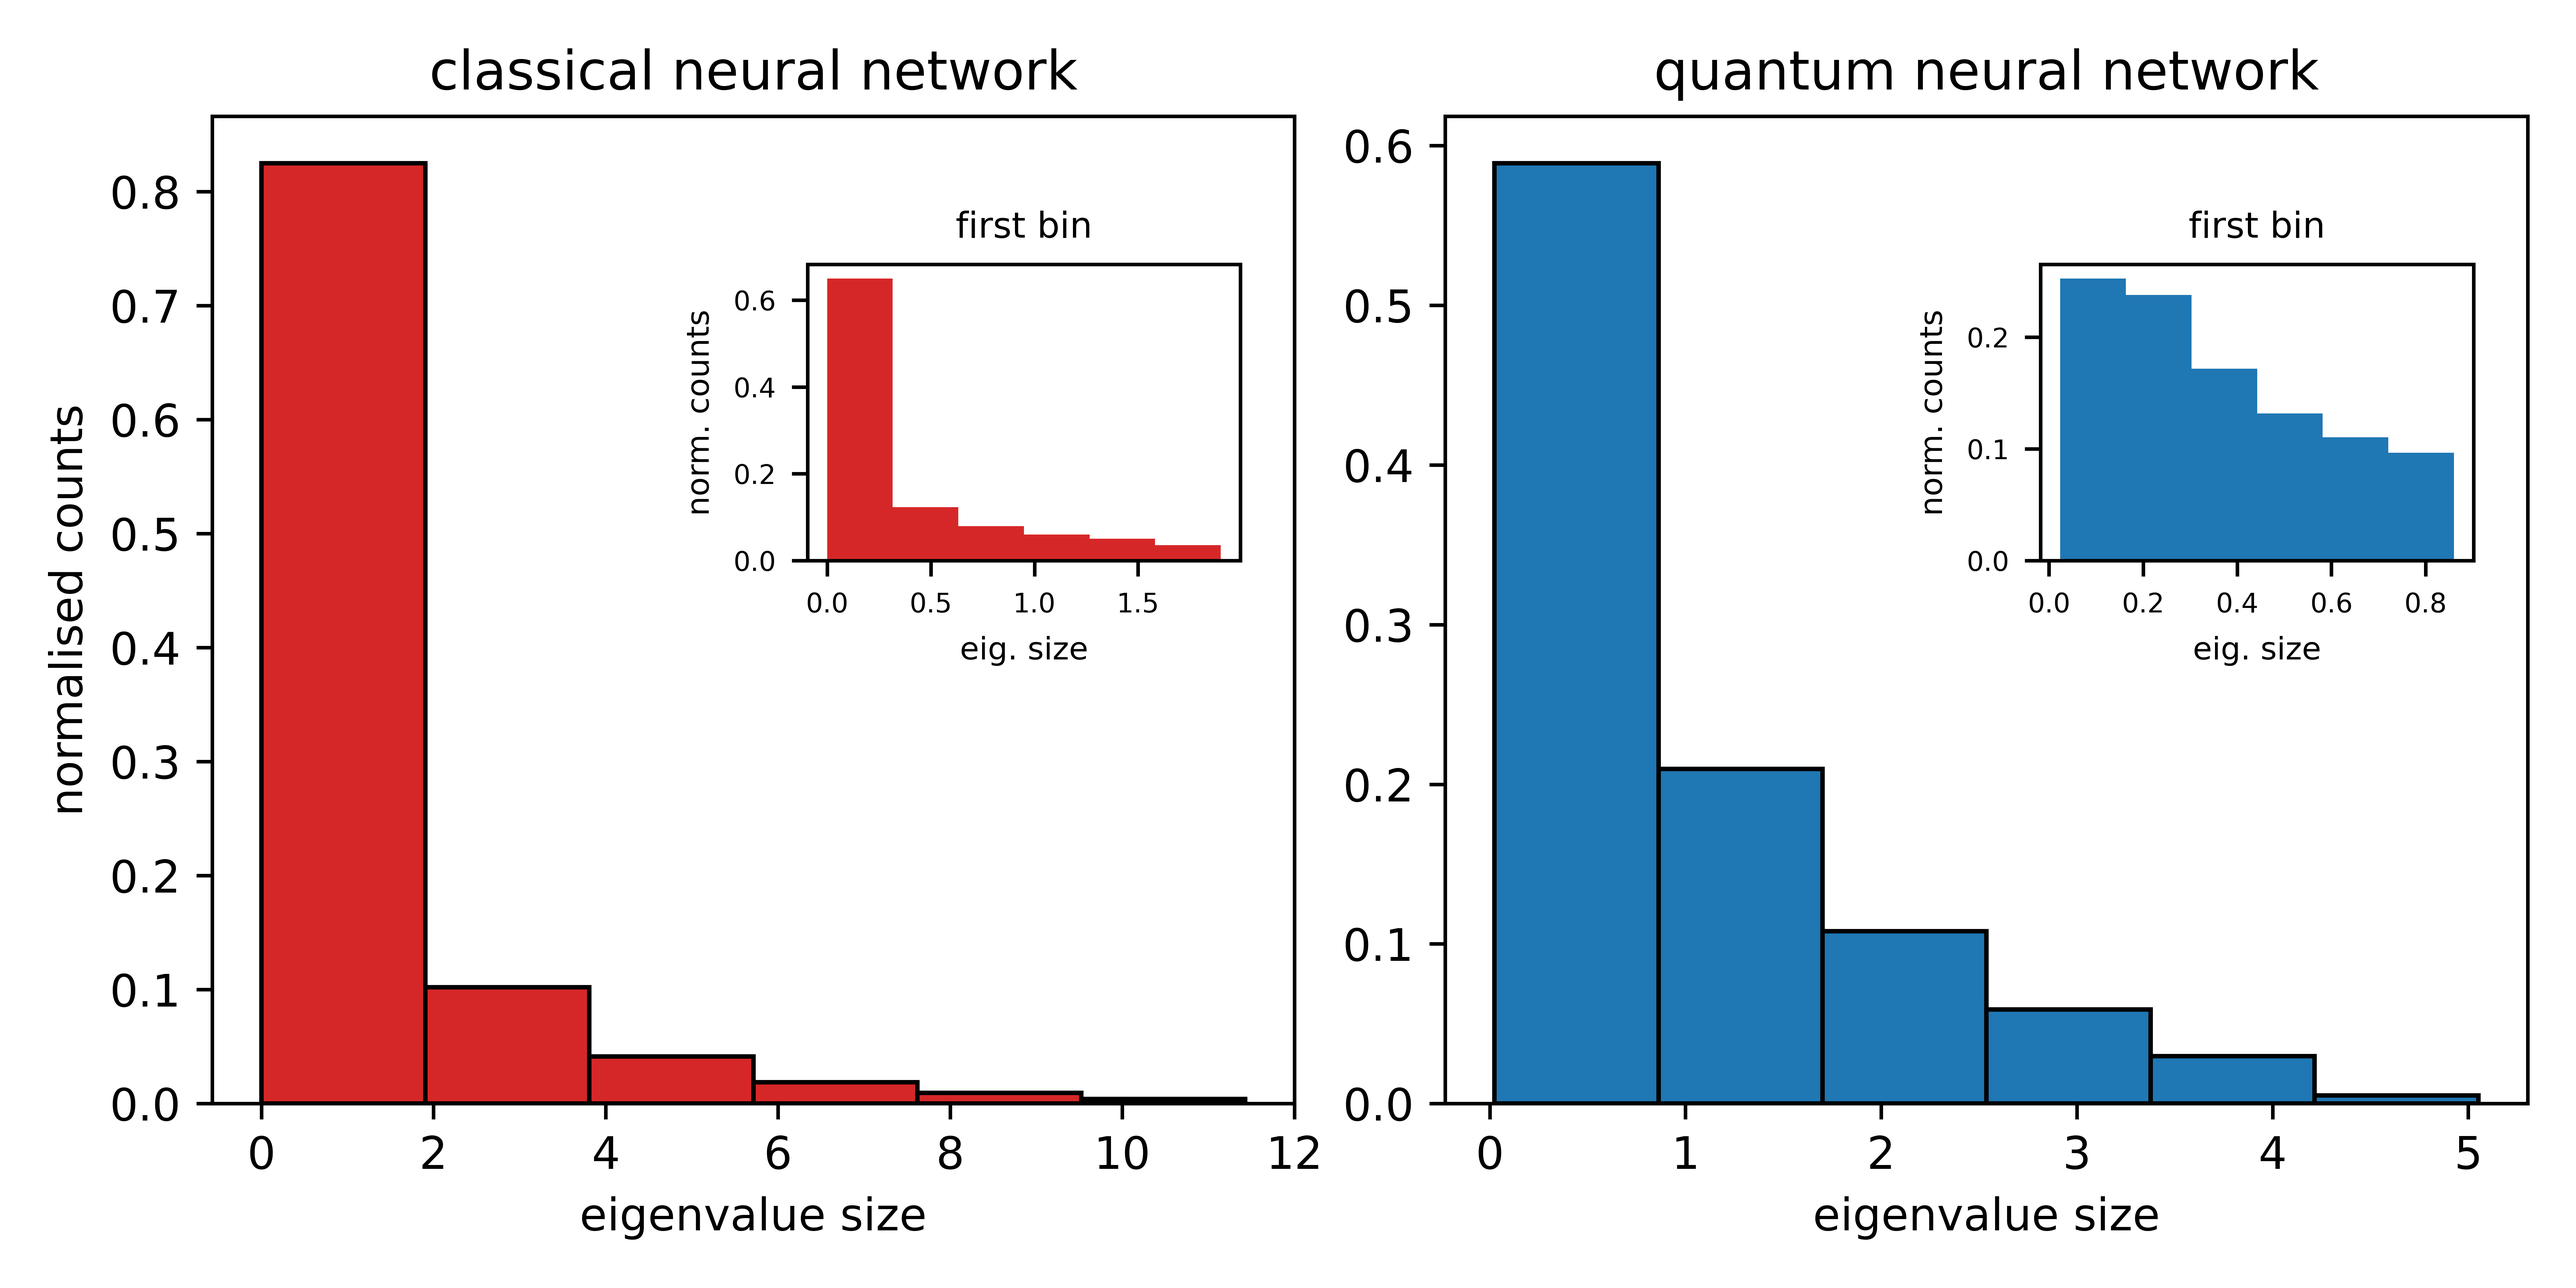
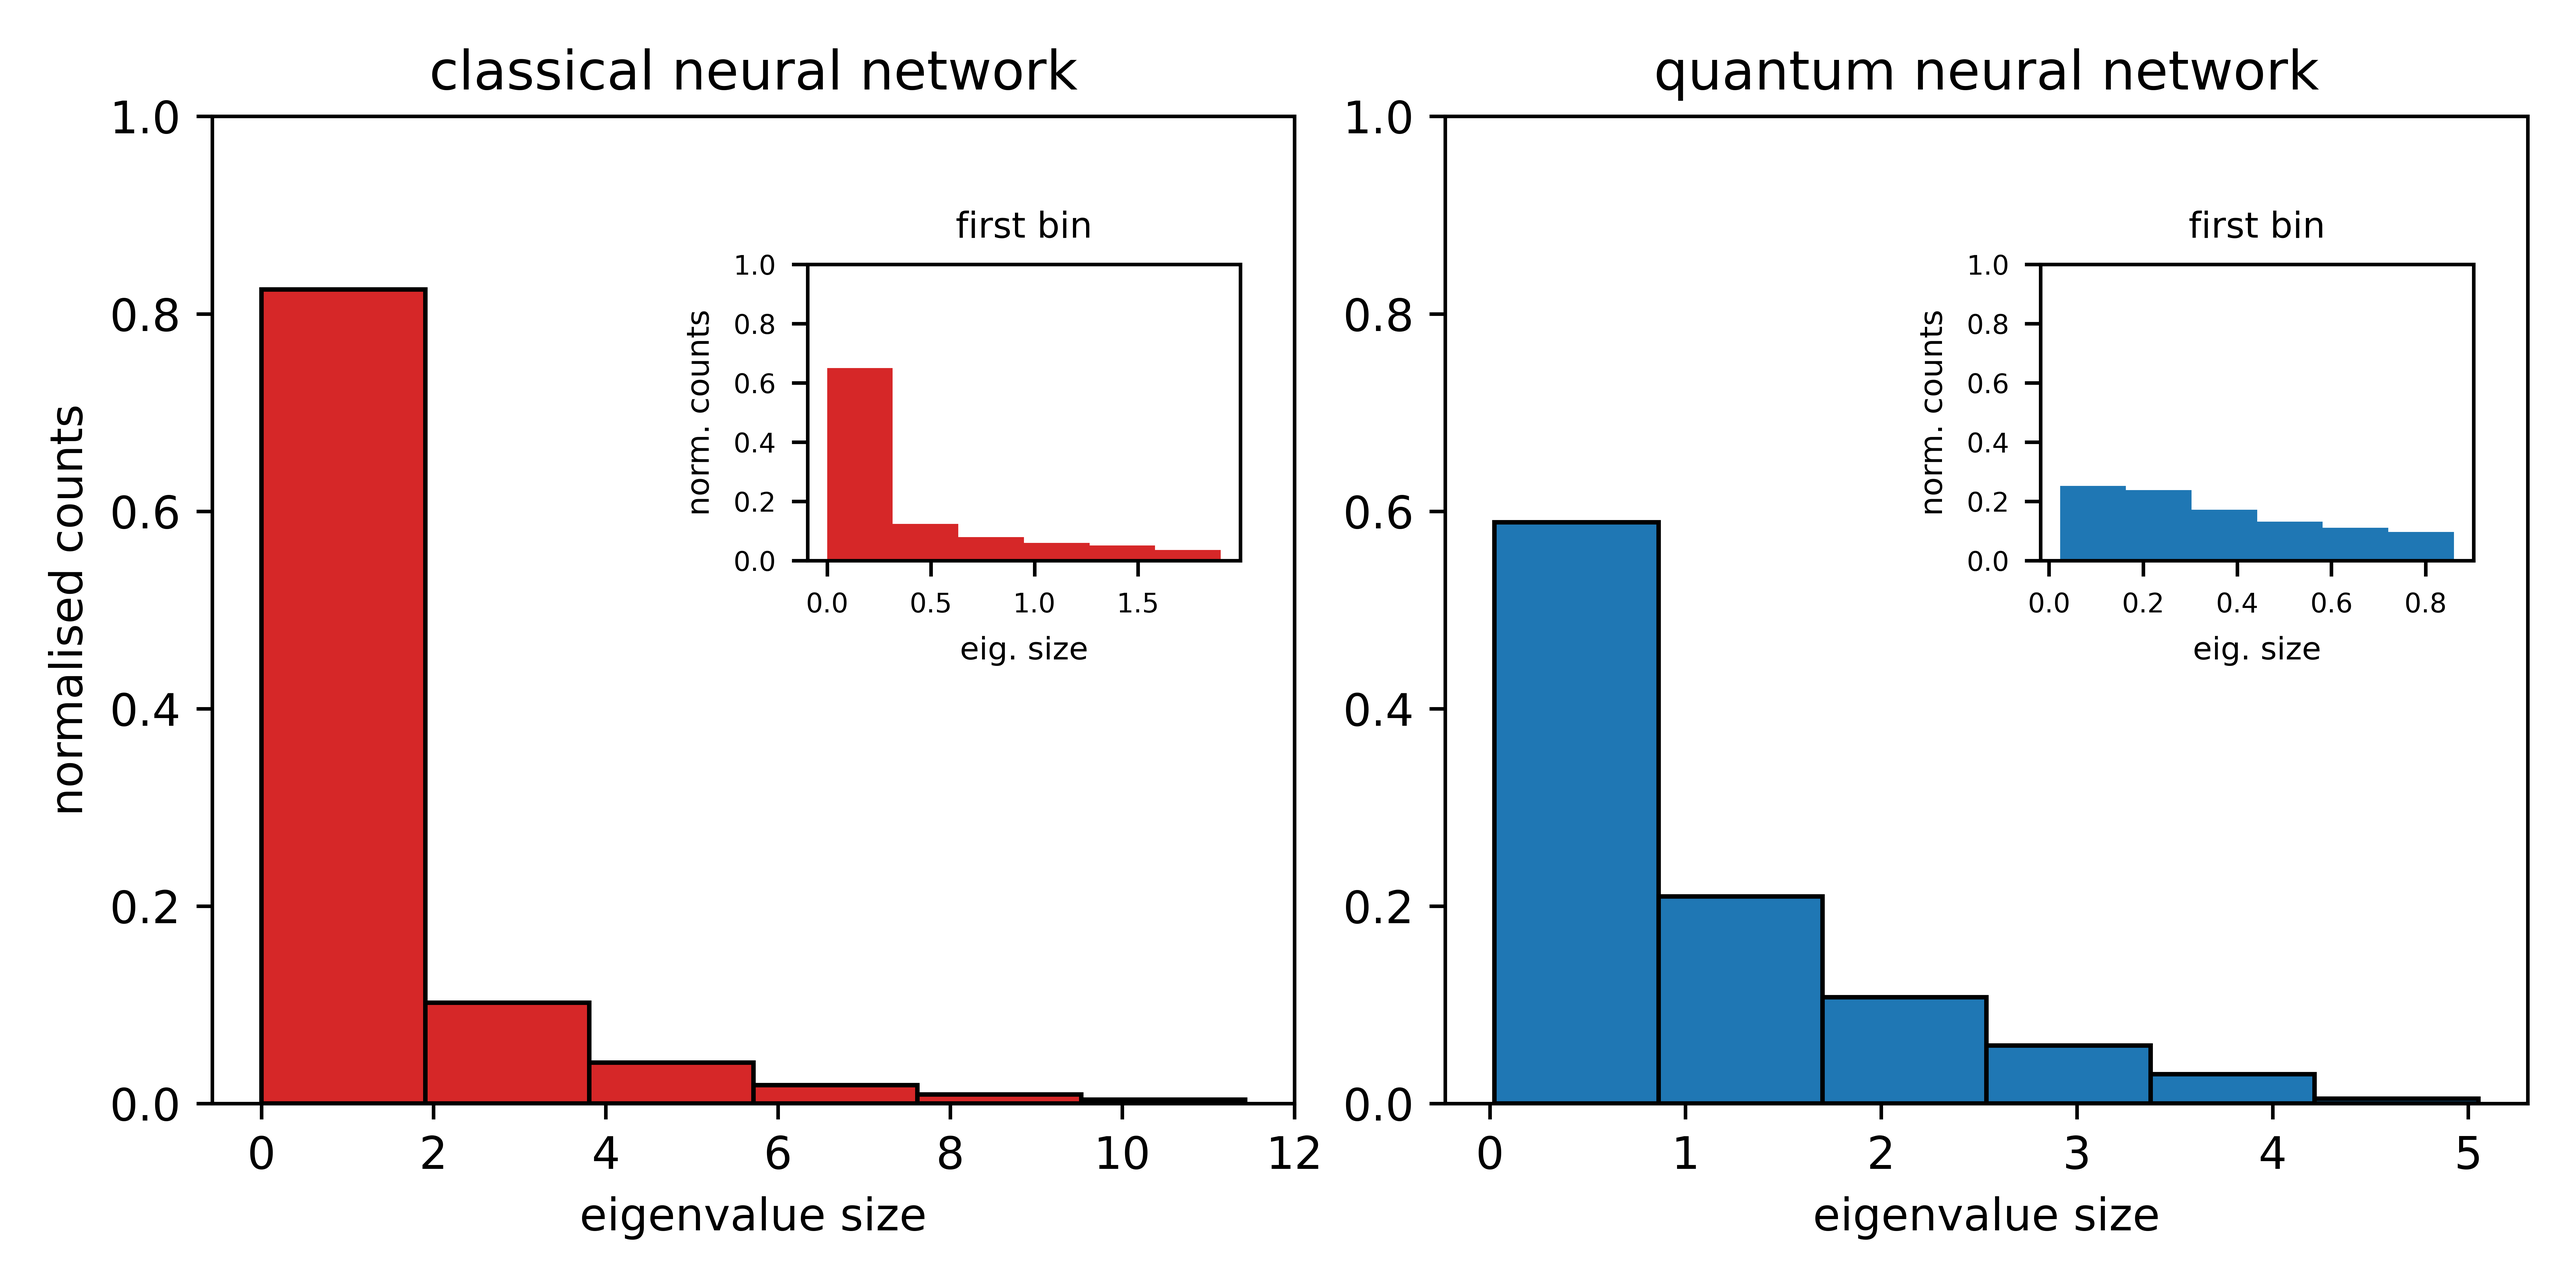
Updated Effective Dimension example and results

diff --git a/examples/effective_dimension.py b/examples/effective_dimension.py
@@ -22,6 +22,7 @@ def plot_hist_with_inset(panel, values, colour, title):
     panel.set(title=title, xlabel="eigenvalue size")
     if "classical" in title:
         panel.set_ylabel("normalised counts")
+    panel.set_ylim(0, 1)
 
     # Inset showing distribution of first-bin values
     first_bin_mask = (vals_np >= bins[0]) & (vals_np < bins[1])
@@ -38,6 +39,7 @@ def plot_hist_with_inset(panel, values, colour, title):
     inset.set_ylabel("norm. counts", fontsize=7)
     inset.tick_params(axis="both", labelsize=6)
     inset.set_title("first bin", fontsize=8)
+    inset.set_ylim(0, 1)
 
 
 def main() -> None:
@@ -48,8 +50,8 @@ def main() -> None:
       2. Figure 3 - Normalised effective dimension vs number of data points (n) for a FCN and QNN.
 
     All experiments use only the QNN and ParamMatchedFCN models (no hybrid or "easy" quantum models).
-    QNN parameters follow the configuration from train.py: in_features=$s_{in}$, out_features=$s_{out}$, num_layers=3
-    (unless otherwise noted for specific experiments), shots=1024, feature_map="z", var_form="efficientsu2", reupload=False.
+    QNN parameters follow the configuration from train.py: in_features=$s_{in}$, out_features=$s_{out}$, num_layers=6
+    (unless otherwise noted for specific experiments), shots=2048, feature_map="z", var_form="realamplitudes", reupload=False.
     """
     # Ensure reproducibility
     set_seed(42)
@@ -60,12 +62,12 @@ def main() -> None:
     else:
         cudaq.set_target("qpp-cpu")
 
-    # 1. Figure 2: Fisher information eigenvalue spectrum histograms for FCN vs QNN (d≈40, s_in=4, s_out=3).
+    # 1. Figure 2: Fisher information eigenvalue spectrum histograms for FCN vs QNN (d≈28, s_in=4, s_out=3).
     print("Generating Figure 2 (Fisher information spectrum)...")
     s_in = 4
     s_out = 3
     n_layers = 6
-    # Initialize QNN and classical model with parameter count ~40
+    # Initialize QNN and classical model with parameter count 28
     # Use QNN with default parameters (num_layers=3) and count its parameters
     model_qnn = QNN(
         in_features=s_in,
@@ -129,19 +131,10 @@ def main() -> None:
     fhat_fcn_batch, fhat_qnn_batch = map(
         torch.stack, (fhat_fcn_list, fhat_qnn_list)
     )
-    torch.save(eigvals_fcn, "results/data/eigvals_fcn.pt")
-    torch.save(eigvals_qnn, "results/data/eigvals_qnn.pt")
-    torch.save(fhat_fcn_list, "results/data/fhat_fcn.pt")
-    torch.save(fhat_qnn_list, "results/data/fhat_qnn.pt")
-
-    # eigvals_fcn, eigvals_qnn, fhat_fcn_batch, fhat_qnn_batch = map(
-    #     lambda f: torch.load(f, weights_only=True), (
-    #         "results/data/eigvals_fcn.pt",
-    #         "results/data/eigvals_qnn.pt",
-    #         "results/data/fhat_fcn.pt",
-    #         "results/data/fhat_qnn.pt"
-    #     )
-    # )
+    torch.save(eigvals_fcn, "results/data/information_geometry/eigvals_fcn.pt")
+    torch.save(eigvals_qnn, "results/data/information_geometry/eigvals_qnn.pt")
+    torch.save(fhat_fcn_list, "results/data/information_geometry/fhat_fcn.pt")
+    torch.save(fhat_qnn_list, "results/data/information_geometry/fhat_qnn.pt")
 
     # Plot histograms of eigenvalue spectra
     fig2, ax = plt.subplots(1, 2, figsize=(8, 4), dpi=1000)
@@ -152,7 +145,7 @@ def main() -> None:
     plt.close(fig2)
     print("Figure 2 saved in to results/images/fisher_information_spectrum.png")
 
-    # 2. Figure 3: Normalised effective dimension vs number of data points for QNN vs FCN (d≈40, s_in=4, s_out=2).
+    # 2. Figure 3: Normalised effective dimension vs number of data points for QNN vs FCN (d≈28, s_in=4, s_out=2).
     print("Generating Figure 3 (Normalised effective dimension vs number of data)...")
 
     # Define range of number of data points (n) to evaluate effective dimension
@@ -175,11 +168,13 @@ def main() -> None:
     ax3.set_xlabel("number of data")
     ax3.set_ylabel("normalised effective dimension $d_{\\text{eff}}/d$")
     ax3.legend(loc="lower right")
+    ax3.grid(True)
     ax3.set_xlim([0, n_values.max()])
+    ax3.set_ylim([0, 1])
     fig3.tight_layout()
-    plt.savefig("results/images/normalised_effective_dimension.png")
+    plt.savefig("results/images/information_geometry/normalised_effective_dimension.png")
     plt.close(fig3)
-    print("Figure 3 saved to results/images/normalised_effective_dimension.png")
+    print("Figure 3 saved to results/images/information_geometry/normalised_effective_dimension.png")
 
 
 if __name__ == "__main__":
